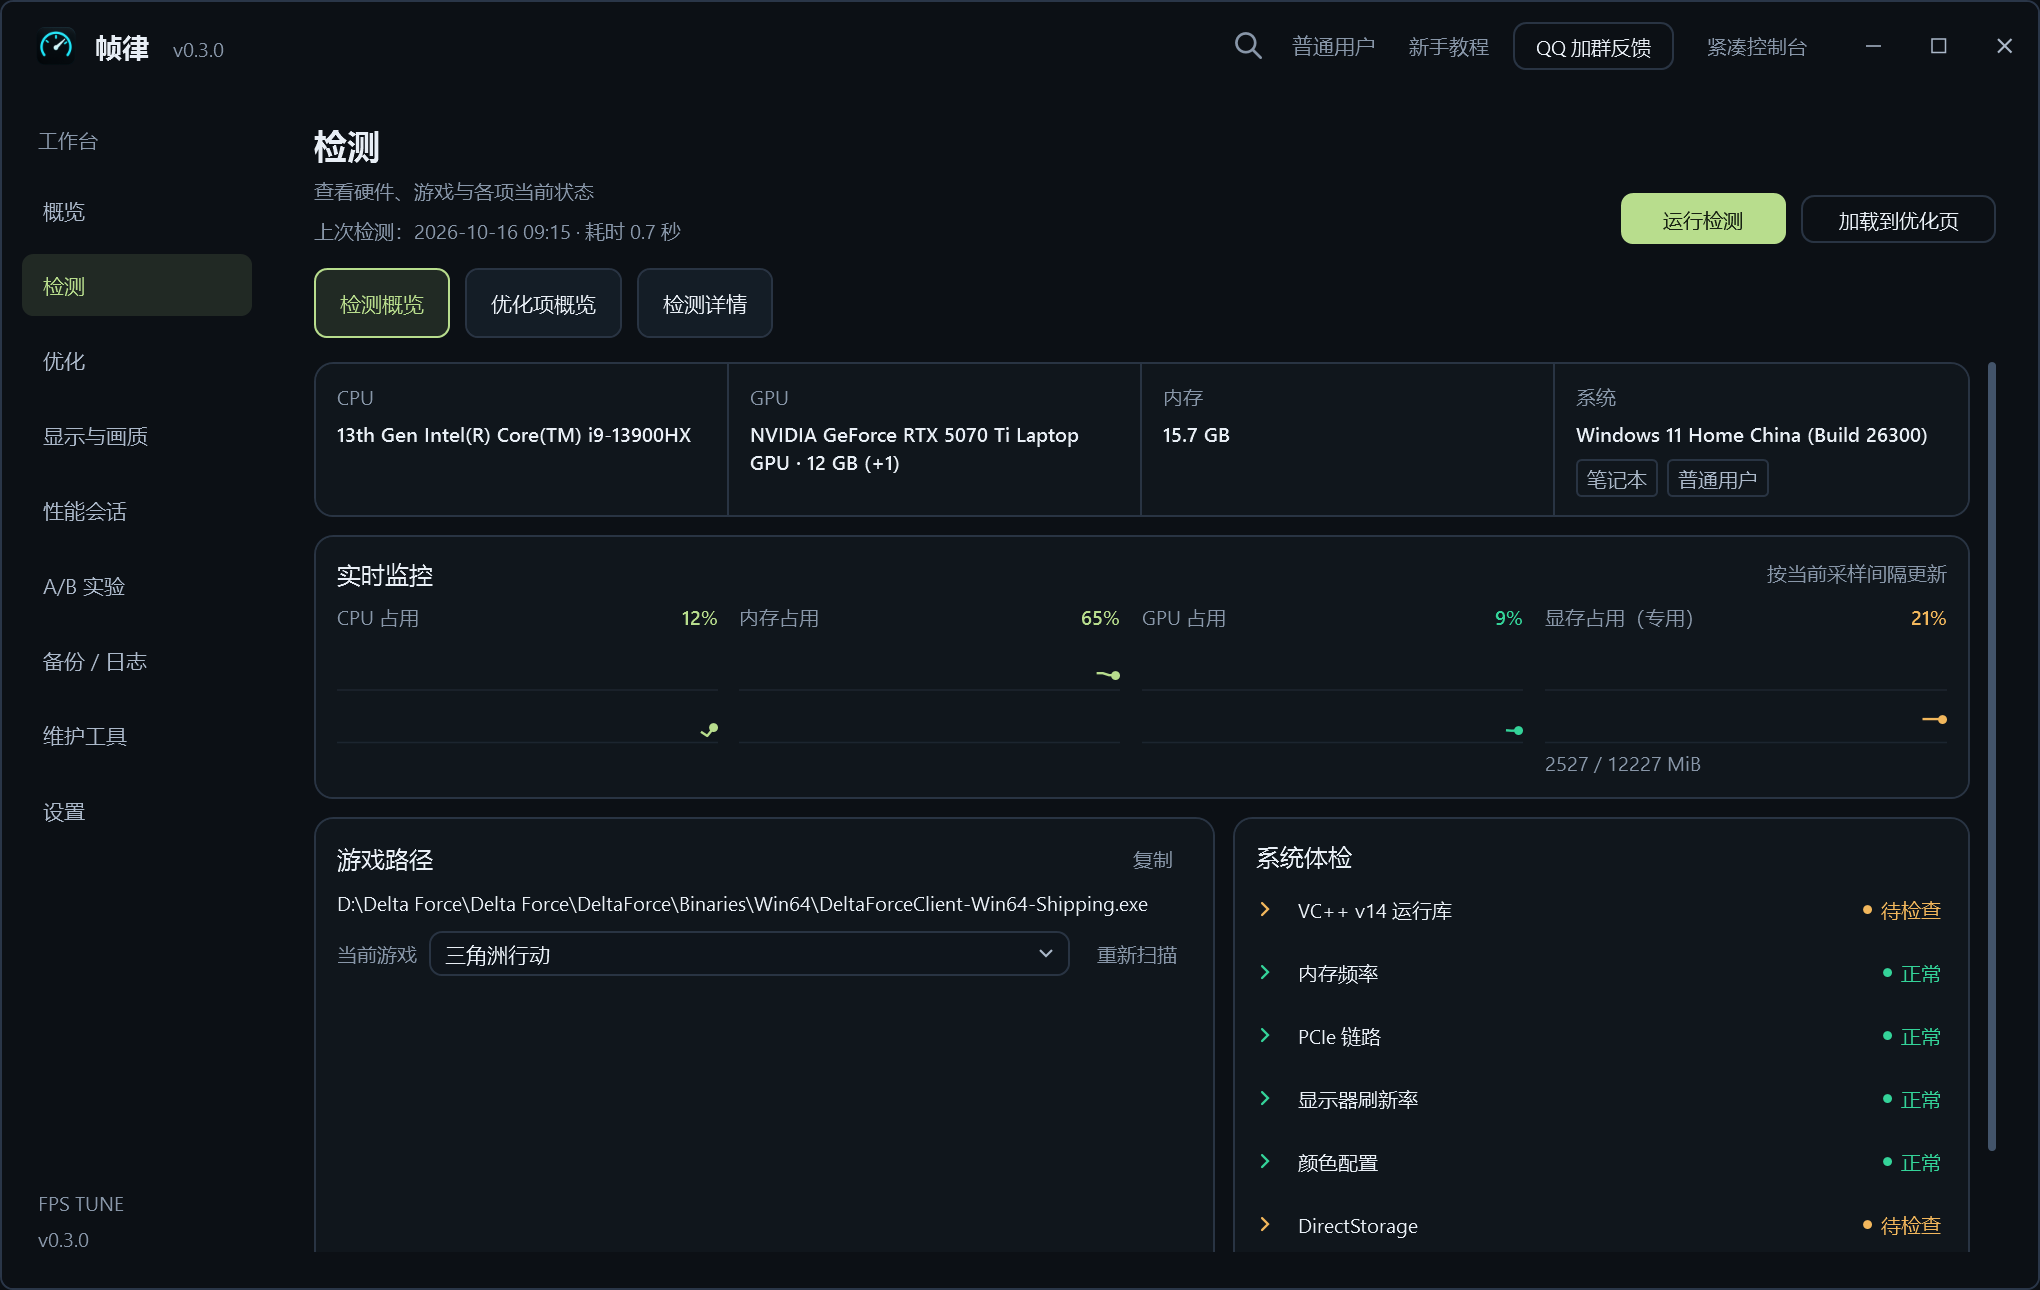
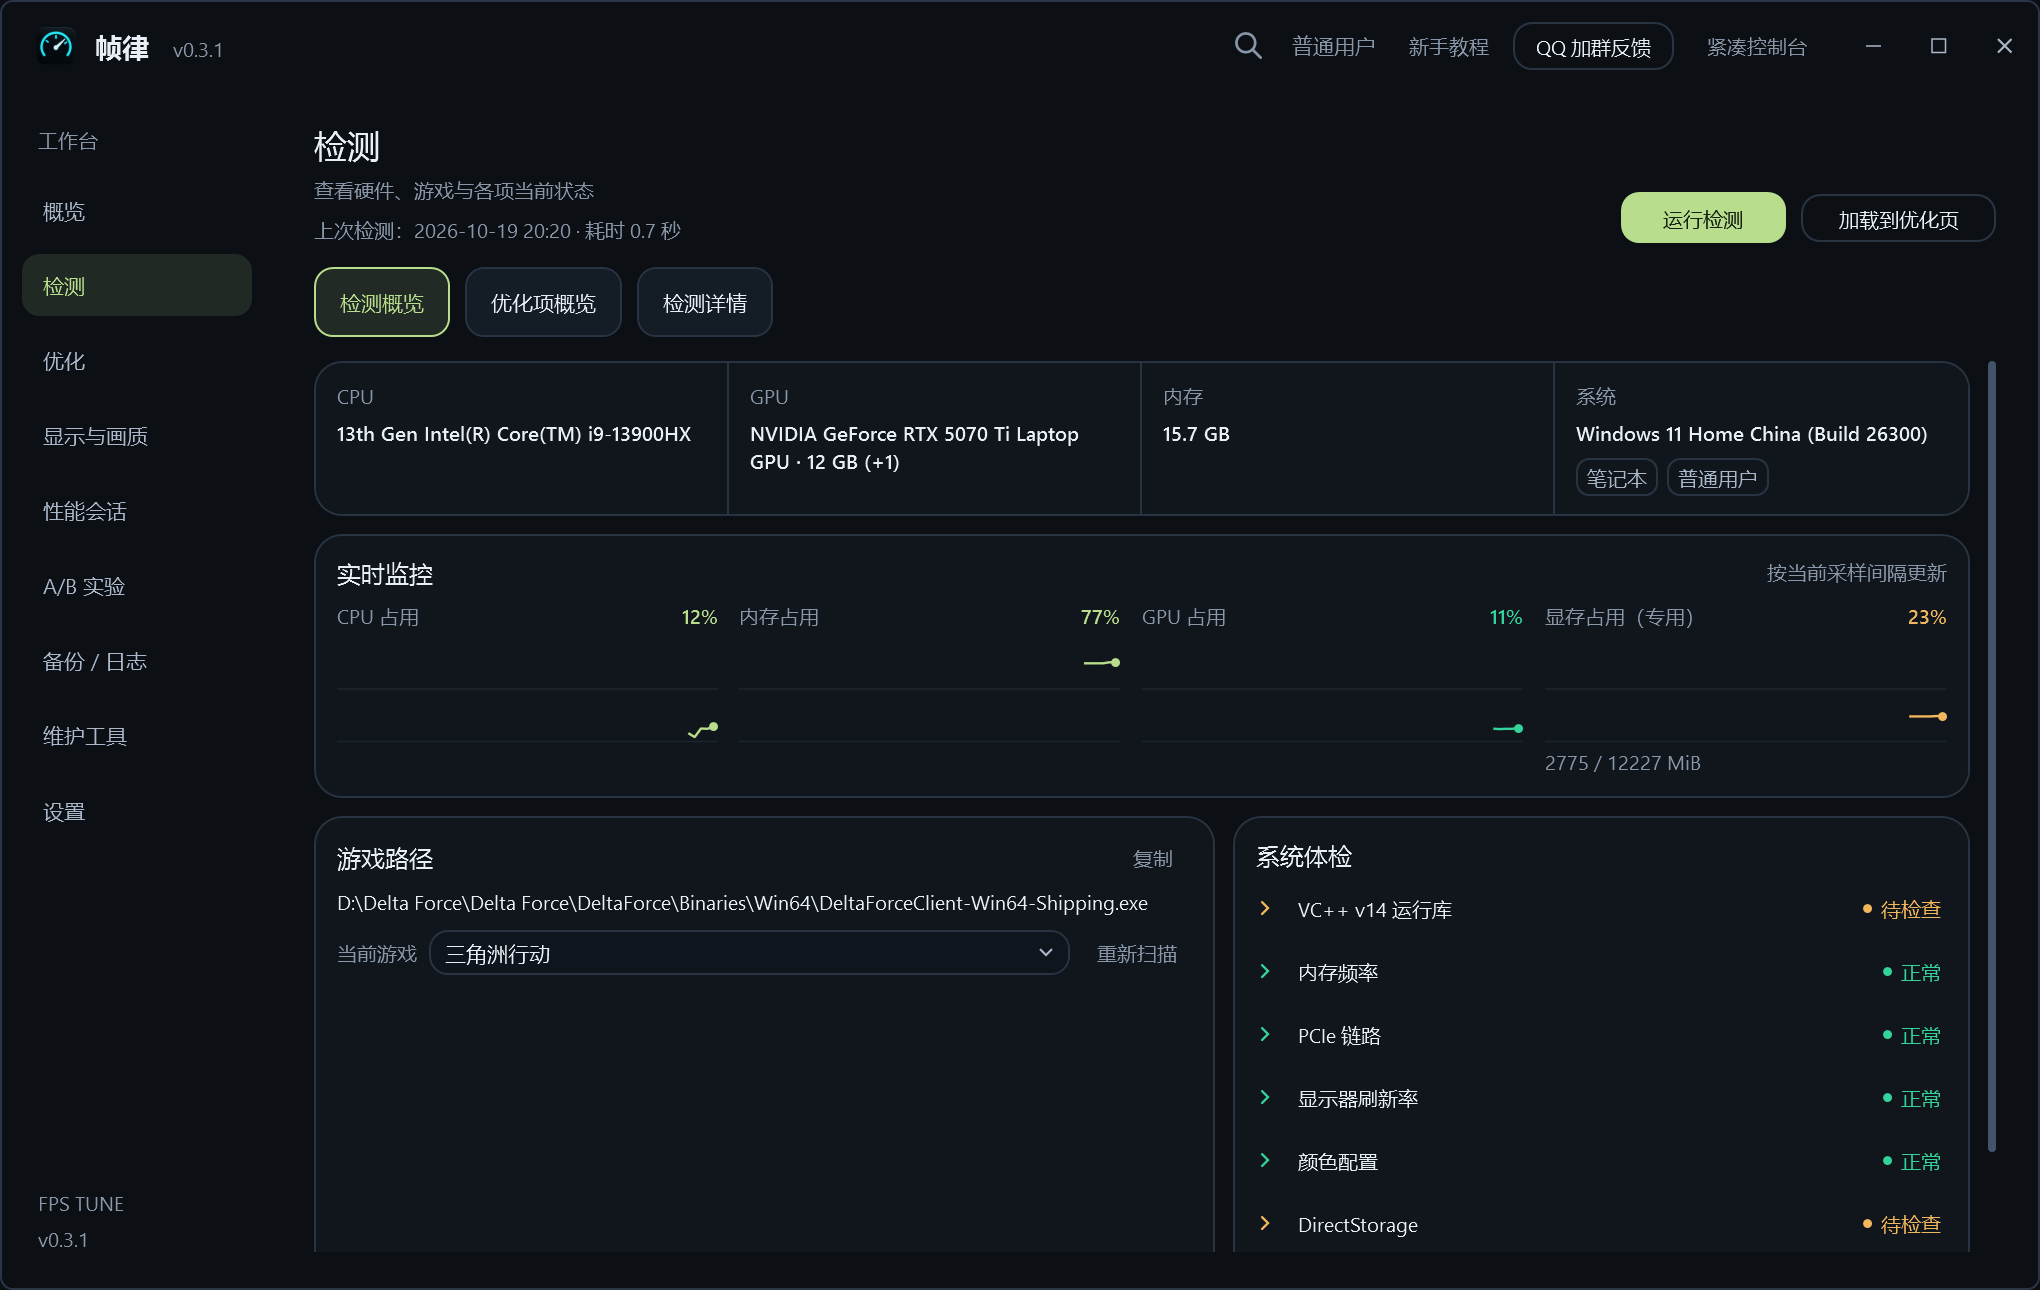
准备发布 0.3.1 并更新功能说明与界面预览
同步整屏色彩调节、Equalizer APO 均衡器、优化后自动检测和外观设置的使用说明，替换实际新版界面截图，更新正式版下载入口与更新日志。

代码沿用已验证的 639 项全量回归及零警告构建；实际只读界面渲染覆盖 15 张截图，中英图片路径与版本链接检查通过，保留用户未跟踪测试脚本。

diff --git a/README.en.md b/README.en.md
@@ -1,11 +1,11 @@
 # FPS Tune · fps-tune
 
-[简体中文](README.md) · [English](README.en.md) · [Official downloads](https://github.com/jidekaixin2dian/fps-tune/releases/tag/v0.3.0)
+[简体中文](README.md) · [English](README.en.md) · [Official downloads](https://github.com/jidekaixin2dian/fps-tune/releases/tag/v0.3.1)
 
 Windows system tuning and performance measurement: detect → review → apply → measure → restore.
 Available through a desktop interface and command-line tools.
 
-[![release](https://img.shields.io/github/v/release/jidekaixin2dian/fps-tune?style=flat)](https://github.com/jidekaixin2dian/fps-tune/releases/tag/v0.3.0)
+[![release](https://img.shields.io/github/v/release/jidekaixin2dian/fps-tune?style=flat)](https://github.com/jidekaixin2dian/fps-tune/releases/tag/v0.3.1)
 ![platform](https://img.shields.io/badge/Windows-10%2F11%20x64-blue?style=flat)
 [![license](https://img.shields.io/github/license/jidekaixin2dian/fps-tune?style=flat)](LICENSE)
 [![build](https://img.shields.io/github/actions/workflow/status/jidekaixin2dian/fps-tune/build.yml?branch=main&label=build&style=flat)](https://github.com/jidekaixin2dian/fps-tune/actions/workflows/build.yml)
@@ -13,12 +13,12 @@ Available through a desktop interface and command-line tools.
 
 ## Versions and downloads
 
-Current version: **[v0.3.0](https://github.com/jidekaixin2dian/fps-tune/releases/tag/v0.3.0)**. The 1.x line is unmaintained.
+Current version: **[v0.3.1](https://github.com/jidekaixin2dian/fps-tune/releases/tag/v0.3.1)**. The 1.x line is unmaintained.
 
-Download from this repository's [Releases](https://github.com/jidekaixin2dian/fps-tune/releases/tag/v0.3.0).
+Download from this repository's [Releases](https://github.com/jidekaixin2dian/fps-tune/releases/tag/v0.3.1).
 The application targets Windows 10/11 x64; your OS version must satisfy .NET 10 requirements.
 
-**Download the [EXE installer, FpsTune-Setup-0.3.0.exe](https://github.com/jidekaixin2dian/fps-tune/releases/download/v0.3.0/FpsTune-Setup-0.3.0.exe), first.** It includes the .NET runtime and guides you through installation. The portable ZIP is for users who already have the required runtime and want to run without installation.
+**Download the [EXE installer, FpsTune-Setup-0.3.1.exe](https://github.com/jidekaixin2dian/fps-tune/releases/download/v0.3.1/FpsTune-Setup-0.3.1.exe), first.** It includes the .NET runtime and guides you through installation. The portable ZIP is for users who already have the required runtime and want to run without installation.
 
 | File | Purpose |
 |---|---|
@@ -26,7 +26,7 @@ The application targets Windows 10/11 x64; your OS version must satisfy .NET 10 
 | `FpsTune-Portable-<version>.zip` | Portable application requiring [.NET 10 Windows Desktop Runtime](https://dotnet.microsoft.com/download/dotnet/10.0) |
 | `SHA256SUMS-v<version>.txt` | Compare with `Get-FileHash -Algorithm SHA256 <file>` |
 
-Checksum manifest for this release: [SHA256SUMS-v0.3.0.txt](https://github.com/jidekaixin2dian/fps-tune/releases/download/v0.3.0/SHA256SUMS-v0.3.0.txt).
+Checksum manifest for this release: [SHA256SUMS-v0.3.1.txt](https://github.com/jidekaixin2dian/fps-tune/releases/download/v0.3.1/SHA256SUMS-v0.3.1.txt).
 
 The application is currently unsigned, so Windows may show an unknown publisher. Verify the source and checksum before running. A checksum verifies matching content; it does not replace a publisher signature.
 Portable and installer packages include complete LICENSE and third-party notices. Full texts are also available under Settings → About → Open-source licenses and CLI `-License`.
@@ -40,6 +40,10 @@ The branded installer lets you choose a destination, including during reinstalla
 | Display and quality | Detection |
 |---|---|
 | ![Display settings](assets/screenshots/light/09-display.png) | ![Detection](assets/screenshots/light/02-detect.png) |
+
+| Screen color controls | Audio equalizer |
+|---|---|
+| ![SDR filters and color controls](assets/screenshots/light/10-color.png) | ![Equalizer APO integration](assets/screenshots/light/11-equalizer.png) |
 
 <details>
 <summary>More: preparation, dark theme, optimization, recording and maintenance</summary>
@@ -57,13 +61,15 @@ The branded installer lets you choose a destination, including during reinstalla
 ## Current features
 
 - **Studio and compact console layouts**, dark/light themes with smooth transitions, shared selection controls and a local image as the application wallpaper. Low-spec mode or disabled Windows animations switches themes immediately.
-- **Detection and system tuning**: 39 available items with current state, privileges, restart requirements and side effects. Balanced selects 16 items, safe-only selects 4, and Custom lets you choose.
-- **Pre-game preparation**: save system standby-memory cleanup, ICC, vibrance and display choices as a one-click routine with individual results.
+- **Detection and system tuning**: 40 available items with current state, privileges, restart requirements and side effects. Balanced selects 16 items, safe-only selects 4, and Custom lets you choose. Applying, one-click optimization and restoring automatically run detection again to update item status and home recommendations.
+- **Pre-game preparation**: save system standby-memory cleanup, SDR screen filters, vibrance and display choices as a one-click routine with individual results.
 - **Frame caps**: set NVIDIA foreground and background frame limits per game and restore those settings separately.
 - **Multiple games**: recognizes Delta Force, CS2, VALORANT, APEX, PUBG, Call of Duty, Fortnite, Warframe and other listed clients; scans shared libraries and accepts a manually chosen EXE. Path detection does not establish performance or anti-cheat compatibility for every title.
-- **Display and quality**: per-game NVIDIA DRS / DLSS settings, digital vibrance for a selected display, 11 generated ICC presets or a custom `.icc` / `.icm`, and restoration of the original association. ICC works in color-managed applications; some games ignore it.
+- **Display and quality**: per-game NVIDIA DRS / DLSS settings and NVIDIA digital vibrance; 11 SDR screen presets, brightness, contrast, gamma, shadow lift and RGB controls with per-display restoration. The Windows screen-curve path works with AMD, NVIDIA and Intel outputs that support the interface. Advanced ICC retains presets, custom `.icc` / `.icm` files and association restoration.
+- **Audio equalizer**: adjust 10 frequency bands, preamp and presets under Maintenance → Audio equalizer, with bypass and removal of this tool's changes. Uses Equalizer APO; first install the engine, configure the output device and restart when prompted.
+- **Driver advice**: query NVIDIA's official catalog for the latest WHQL driver matching the GPU, OS and laptop/desktop type, with date and source. AMD and Intel link to their official driver pages.
 - **GPU device names**: preview eight presets including GTX 750 Ti and GTX 1050 Ti, then restore the original description when needed. This changes the Windows device description while preserving hardware capabilities.
-- **Organized settings**: appearance, wallpaper, startup and notifications, games and profiles, data and permissions, and About. Settings save automatically; wallpaper has a rounded preview and compact opacity slider.
+- **Organized settings**: appearance, wallpaper, startup and notifications, games and profiles, data and permissions, and About. Settings save automatically. Corner controls offer Classic and Large presets plus four custom radius groups; wallpaper has a rounded preview and compact opacity slider.
 - **Everyday maintenance**: fixed-drive free space and the top 8 process working sets, refreshed on demand. Open Windows storage cleanup, installed apps, Task Manager, startup apps, reliability history, Resource Monitor, network and update settings. Snapshots stay in the current page and are not uploaded.
 - **Cache maintenance**: preview the current user's DirectX / NVIDIA shader caches and confirm cleanup. Busy or changed files are skipped. Deleted cache files cannot be restored; regeneration may cause temporary stutter.
 - **Performance sessions and A/B**: local CPU, RAM, GPU, VRAM and frame-time recording, exports and comparisons. Real FPS capture requires official PresentMon.

diff --git a/README.md b/README.md
@@ -1,11 +1,11 @@
 # FPS 帧律 · fps-tune
 
-[简体中文](README.md) · [English](README.en.md) · [官方下载](https://github.com/jidekaixin2dian/fps-tune/releases/tag/v0.3.0)
+[简体中文](README.md) · [English](README.en.md) · [官方下载](https://github.com/jidekaixin2dian/fps-tune/releases/tag/v0.3.1)
 
 面向 Windows 玩家的系统设置调校与性能测量工具：检测 → 审阅 → 应用 → 实测 → 还原。
 提供桌面界面和命令行两种使用方式。
 
-[![release](https://img.shields.io/github/v/release/jidekaixin2dian/fps-tune?style=flat)](https://github.com/jidekaixin2dian/fps-tune/releases/tag/v0.3.0)
+[![release](https://img.shields.io/github/v/release/jidekaixin2dian/fps-tune?style=flat)](https://github.com/jidekaixin2dian/fps-tune/releases/tag/v0.3.1)
 ![platform](https://img.shields.io/badge/Windows-10%2F11%20x64-blue?style=flat)
 [![license](https://img.shields.io/github/license/jidekaixin2dian/fps-tune?style=flat)](LICENSE)
 [![build](https://img.shields.io/github/actions/workflow/status/jidekaixin2dian/fps-tune/build.yml?branch=main&label=build&style=flat)](https://github.com/jidekaixin2dian/fps-tune/actions/workflows/build.yml)
@@ -13,12 +13,12 @@
 
 ## 版本与下载
 
-当前版本为 **[v0.3.0](https://github.com/jidekaixin2dian/fps-tune/releases/tag/v0.3.0)**。
+当前版本为 **[v0.3.1](https://github.com/jidekaixin2dian/fps-tune/releases/tag/v0.3.1)**。
 1.x 版本线已停止维护。
 
-从本仓库 [Releases](https://github.com/jidekaixin2dian/fps-tune/releases/tag/v0.3.0) 下载，适用于 Windows 10/11 x64；具体系统版本需满足 .NET 10 的运行条件。
+从本仓库 [Releases](https://github.com/jidekaixin2dian/fps-tune/releases/tag/v0.3.1) 下载，适用于 Windows 10/11 x64；具体系统版本需满足 .NET 10 的运行条件。
 
-**优先下载 [EXE 安装版：FpsTune-Setup-0.3.0.exe](https://github.com/jidekaixin2dian/fps-tune/releases/download/v0.3.0/FpsTune-Setup-0.3.0.exe)**，已包含 .NET 运行时，按向导安装即可。便携 ZIP 适合已有对应运行时、需要免安装使用的用户。
+**优先下载 [EXE 安装版：FpsTune-Setup-0.3.1.exe](https://github.com/jidekaixin2dian/fps-tune/releases/download/v0.3.1/FpsTune-Setup-0.3.1.exe)**，已包含 .NET 运行时，按向导安装即可。便携 ZIP 适合已有对应运行时、需要免安装使用的用户。
 
 | 文件 | 用途 |
 |---|---|
@@ -26,7 +26,7 @@
 | `FpsTune-Portable-<版本>.zip` | 便携包，需要 [.NET 10 Windows Desktop Runtime](https://dotnet.microsoft.com/download/dotnet/10.0) |
 | `SHA256SUMS-v<版本>.txt` | 使用 `Get-FileHash -Algorithm SHA256 <文件>` 校验下载文件 |
 
-本版校验清单：[SHA256SUMS-v0.3.0.txt](https://github.com/jidekaixin2dian/fps-tune/releases/download/v0.3.0/SHA256SUMS-v0.3.0.txt)。
+本版校验清单：[SHA256SUMS-v0.3.1.txt](https://github.com/jidekaixin2dian/fps-tune/releases/download/v0.3.1/SHA256SUMS-v0.3.1.txt)。
 
 当前程序未做代码签名，Windows 可能提示未知发布者。运行前核对来源及校验值；校验值用于检查内容一致性，不能替代发布者签名。
 便携包和安装包均包含完整 LICENSE 与第三方声明；软件「设置 → 关于 → 开源许可」和 CLI `-License` 也可查看全文。
@@ -40,6 +40,10 @@
 | 显示与画质 | 系统检测 |
 |---|---|
 | ![DLSS 与显示设置](assets/screenshots/light/09-display.png) | ![系统检测](assets/screenshots/light/02-detect.png) |
+
+| 画面滤镜与参数 | 声音均衡器 |
+|---|---|
+| ![SDR 画面滤镜与参数](assets/screenshots/light/10-color.png) | ![Equalizer APO 声音均衡器](assets/screenshots/light/11-equalizer.png) |
 
 <details>
 <summary>更多界面：开局准备、深色主题、优化、性能记录与维护</summary>
@@ -57,13 +61,15 @@
 ## 当前功能
 
 - **工作台与紧凑控制台**：深浅主题和主题切换过渡，统一选择控件，可使用本地图片作为软件背景。低配模式或 Windows 关闭动画时直接切换主题。
-- **检测与系统调校**：39 个可选项目，逐项展示当前状态、权限、重启要求和副作用。均衡预选 16 项，保守方案含 4 项；也可自定义选择。
-- **开局准备**：保存整机待机内存整理、ICC 滤镜、数字振动和目标显示器的组合，开局前一键执行，分别显示各项结果。
+- **检测与系统调校**：40 个可选项目，逐项展示当前状态、权限、重启要求和副作用。均衡预选 16 项，保守方案含 4 项；也可自定义选择。应用、一键优化或还原后自动重新检测，同步项目状态与首页建议。
+- **开局准备**：保存整机待机内存整理、SDR 画面滤镜、数字振动和目标显示器的组合，开局前一键执行，分别显示各项结果。
 - **游戏限帧**：按游戏设置 NVIDIA 前台、后台帧率上限，并可单独还原。
 - **多游戏**：识别三角洲行动、CS2、VALORANT、APEX、PUBG、使命召唤、Fortnite、Warframe 等客户端，支持共享游戏库与手动选择 EXE。识别路径不等于已完成每款游戏的性能或反作弊兼容性验证。
-- **显示与画质**：按游戏调整 NVIDIA DRS / DLSS 配置、选定显示器的数字振动、11 个生成的 ICC 预设或自选 `.icc` / `.icm`，以及逐屏原始关联还原。ICC 在使用颜色管理的应用中生效，部分游戏会忽略它。
+- **显示与画质**：按游戏调整 NVIDIA DRS / DLSS 配置和 N 卡数字振动；整屏 SDR 支持 11 种画面预设、亮度、对比度、Gamma、暗部提亮及 RGB 调节，逐屏保存原值并可还原。通用屏幕曲线路径适用于支持该接口的 AMD、NVIDIA、Intel 输出；高级 ICC 继续提供预设、自选 `.icc` / `.icm` 和关联还原。
+- **声音均衡器**：在“维护工具 → 声音均衡器”调整 10 段频率、前级增益和音效预设，支持旁路与移除帧律改动。复用 Equalizer APO 引擎，首次需安装引擎、配置输出设备，并按提示重启。
+- **驱动版本建议**：按具体 NVIDIA 型号、系统和笔记本/台式机查询官方最新 WHQL 正式驱动，显示日期和来源；AMD、Intel 提供对应官方入口。
 - **更改显卡名称**：提供 GTX 750 Ti、GTX 1050 Ti 等 8 个预设，应用前预览，可还原原名称。修改 Windows 设备描述，显卡能力保持原样。
-- **设置分类**：外观、壁纸、启动与通知、游戏与方案、数据与权限、关于；设置自动保存，壁纸提供圆角预览与短滑条。
+- **设置分类**：外观、壁纸、启动与通知、游戏与方案、数据与权限、关于；设置自动保存。圆角提供上版经典、当前大圆角两个预设及四组自定义调节，壁纸提供圆角预览与短滑条。
 - **日常维护**：查看固定磁盘空间和内存工作集前 8 项，按需刷新；打开 Windows 存储清理、已安装应用、任务管理器、启动应用、可靠性历史、资源监视器、网络和更新页面。快照保留在当前页面，不自动上传。
 - **缓存维护**：先预览当前用户的 DirectX / NVIDIA 着色器缓存，再确认清理；跳过占用或预览后变化的文件。删除的缓存不能还原，下次运行会重建，可能短暂卡顿。
 - **性能会话与 A/B**：本机记录 CPU、内存、GPU、显存和帧时间，支持报告导出与会话比较。真实 FPS 采样需要官方 PresentMon。

diff --git a/CHANGELOG.md b/CHANGELOG.md
@@ -2,7 +2,7 @@
 
 此文件记录功能、行为和兼容性变化。版本号采用 `主版本.次版本.修订版本`。
 
-## [0.3.1] — 未发布（用户测试）
+## [0.3.1] — 2026-10-19
 
 ### Added
 
